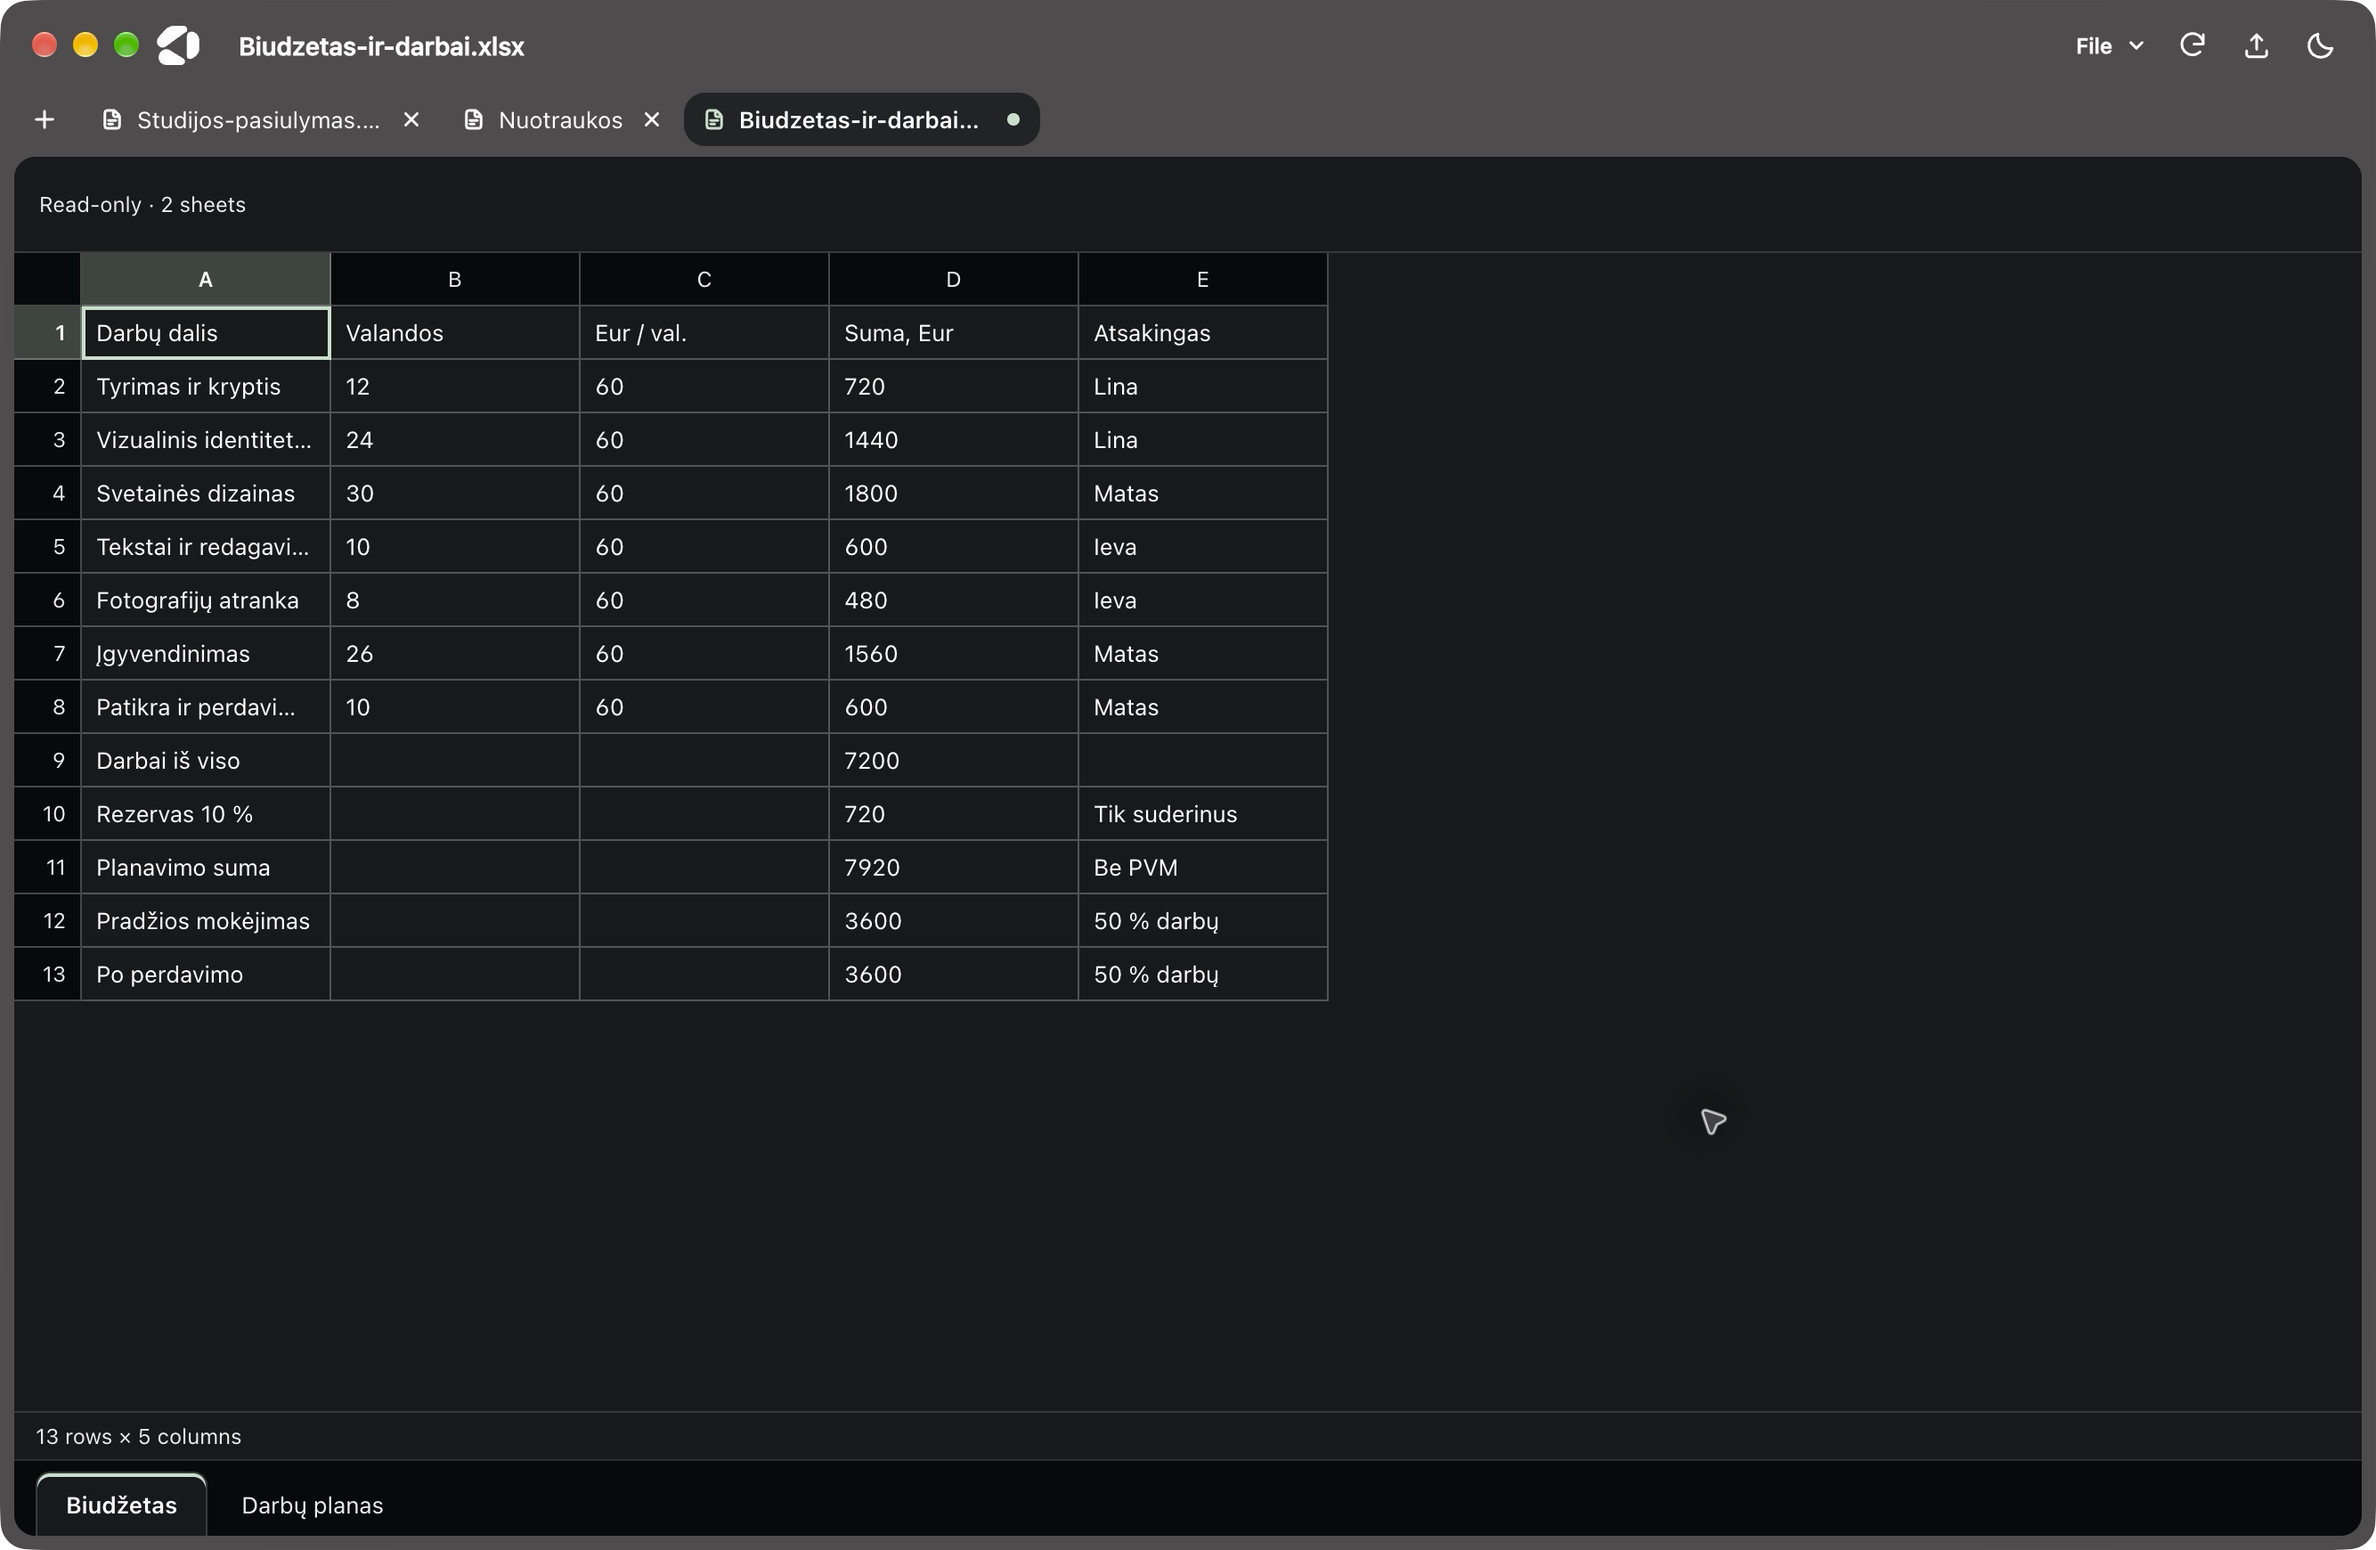
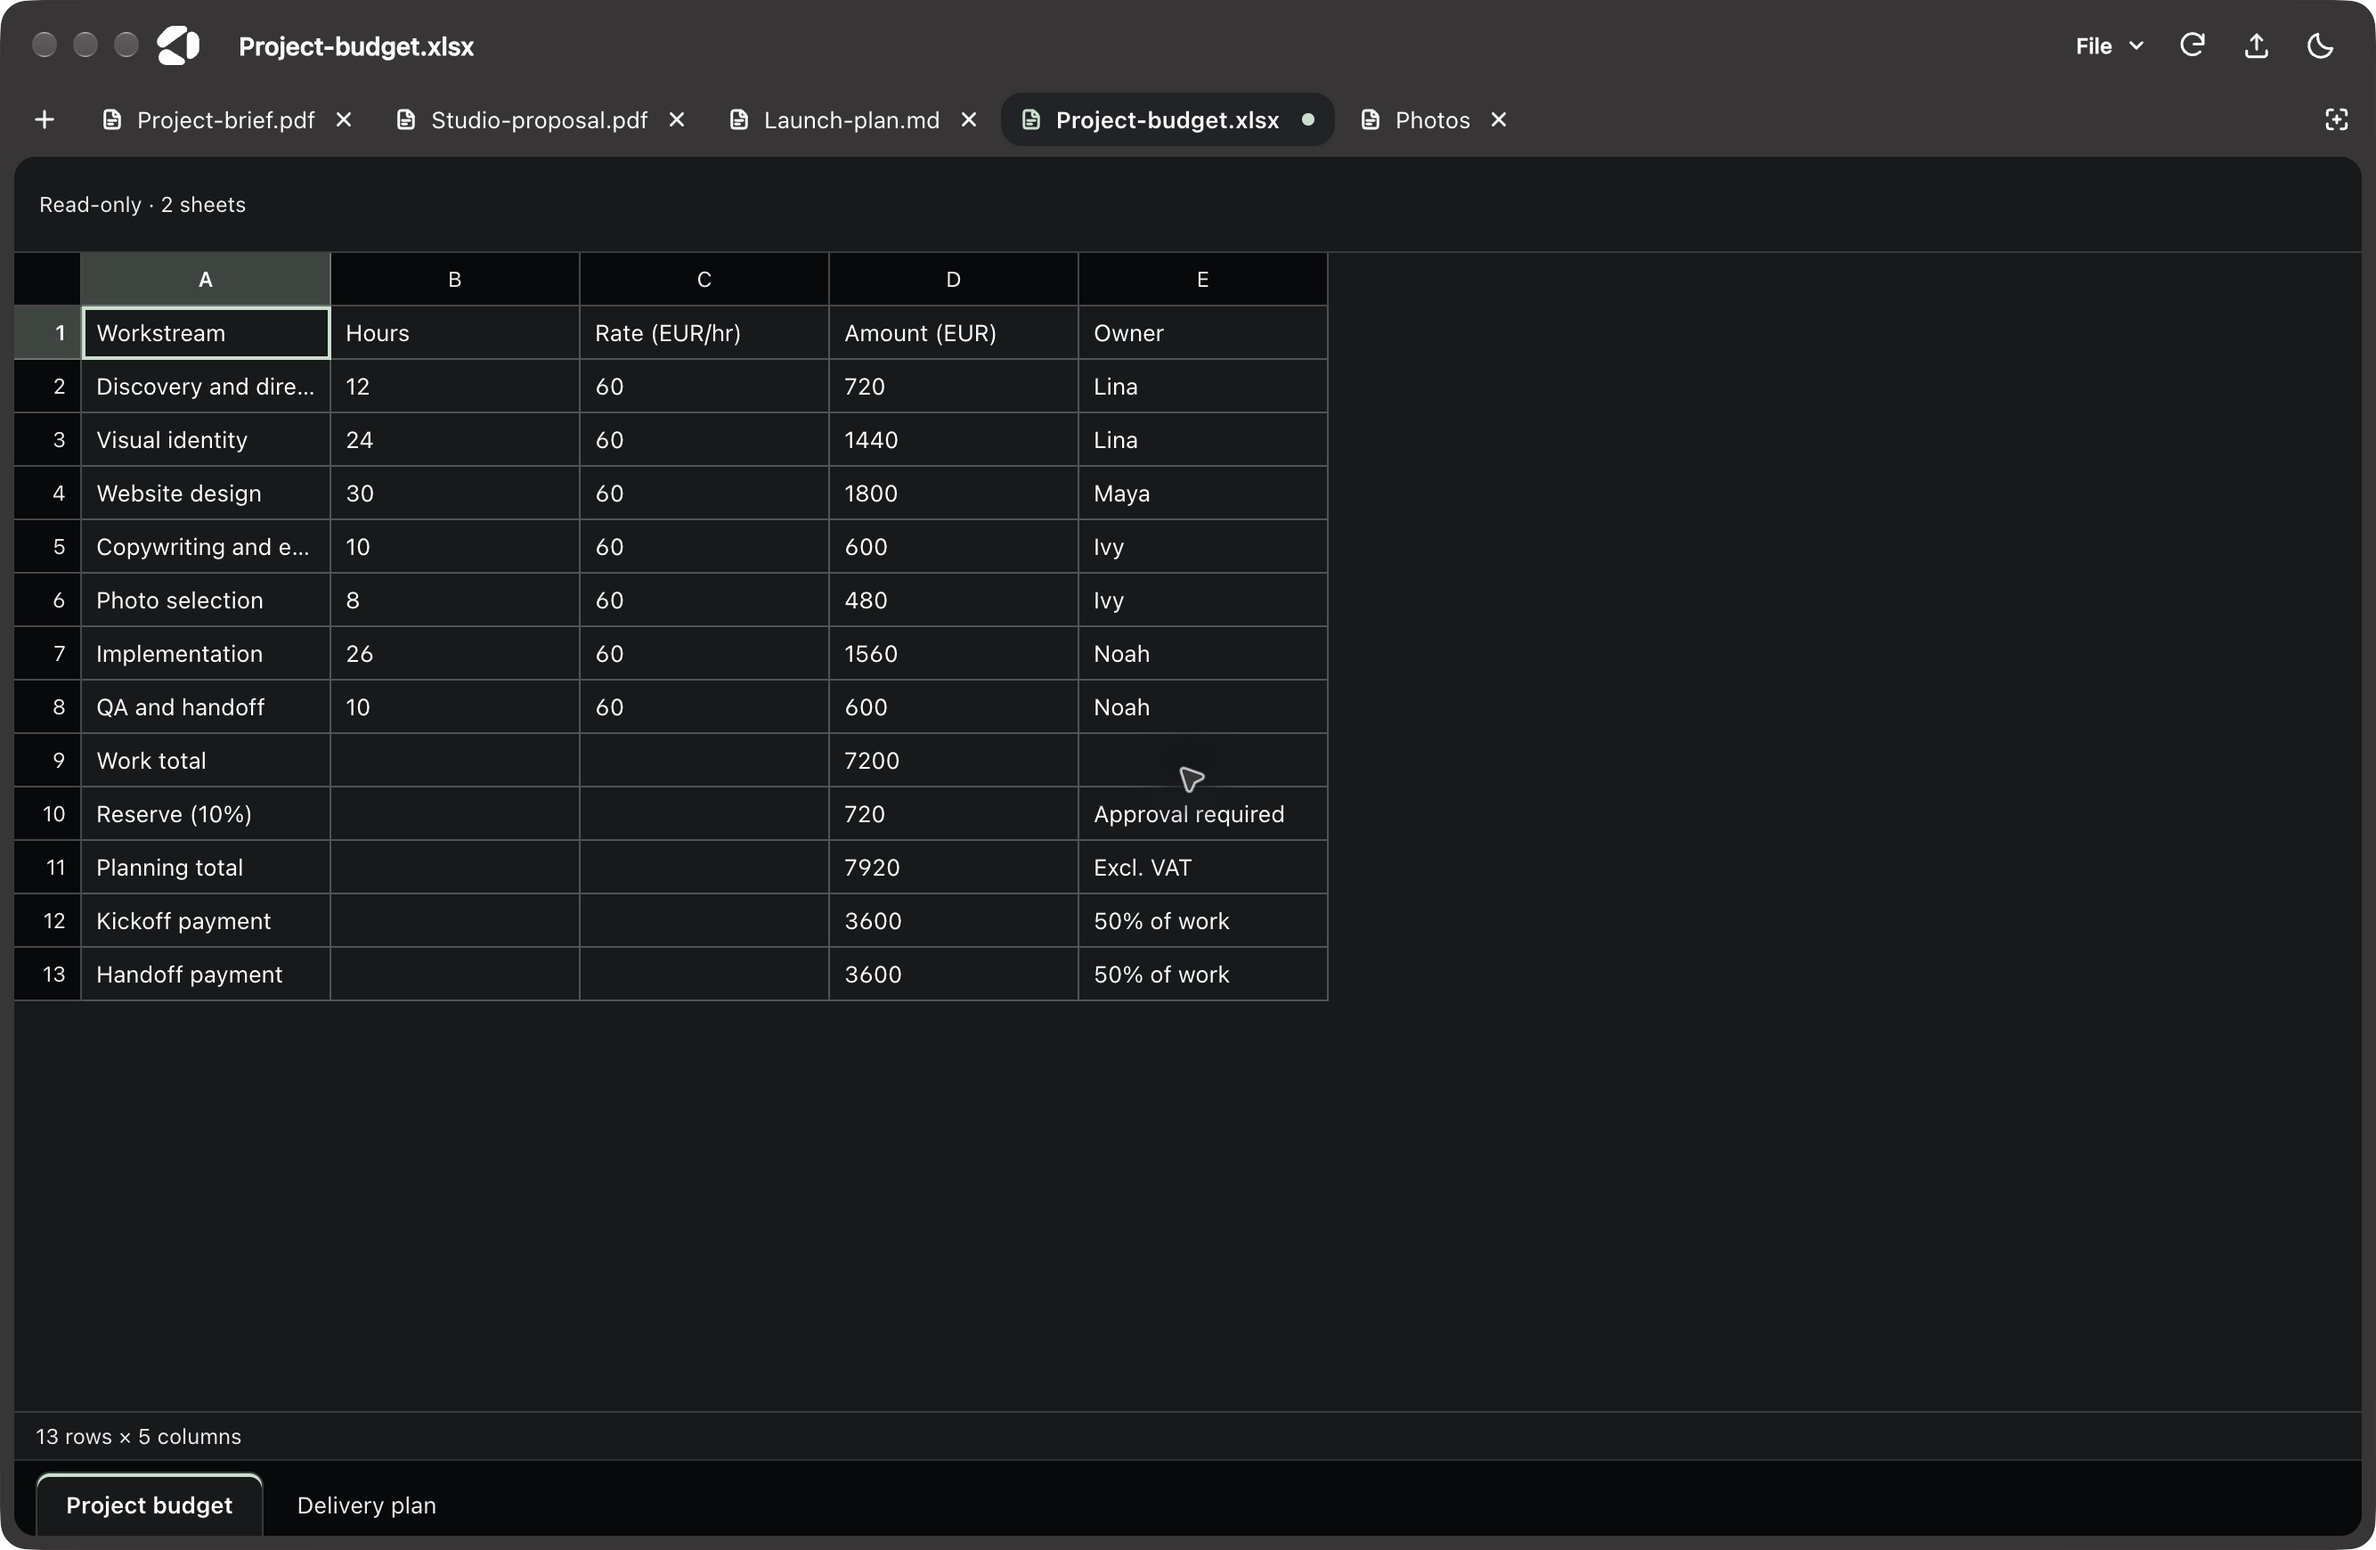
Show English content in the practical GitHub screenshot gallery (#12)

diff --git a/docs/screenshots/README.md b/docs/screenshots/README.md
@@ -1,37 +1,48 @@
 # Public screenshot provenance
 
-The practical gallery uses the installed **Doko 1.20.26** macOS app and its native UI.
-The fictional **Pajūrio studija** project connects a PDF brief, Word proposal, Markdown plan,
-Excel budget, photo folder, and Ask AI conversation. Project documents are freshly generated
-under the ignored `release/practical-capture/files/` workspace. The photo folder reuses three existing real photo source files;
-no previous screenshot image is used as input.
+The GitHub gallery uses the installed **Doko 1.20.27** macOS app and its real native UI.
+The fictional **North Coast Studio** project connects a PDF brief, Word proposal, Markdown launch plan,
+Excel budget, photo folder, and Ask AI conversation. All visible document content, filenames,
+spreadsheet sheet names, questions, and answers in these GitHub captures are in English.
+
+The fresh project files and original captures live under the ignored
+`release/english-capture/files/` and `release/english-capture/raw/` workspaces.
+The photo folder contains three existing real source photos with English filenames;
+no previous screenshot is used as an input.
 
 | Capture | Actual app flow |
 | --- | --- |
-| `pdf-reading.png` | Open and read the project PDF brief |
-| `word-document.png` | Open the `.docx` proposal and view Doko's converted PDF |
-| `markdown-editor.png` | Open and read the project Markdown plan |
-| `excel-workbook.png` | Open the project Excel budget |
-| `photo-gallery.png` | Open the project's photo folder |
-| `ask-ai.png` | Ask about the project document using an existing real provider connection |
+| `pdf-reading.png` | Open and read `Project-brief.pdf` |
+| `word-document.png` | Open `Studio-proposal.docx` and view Doko's converted PDF |
+| `markdown-editor.png` | Open and read `Launch-plan.md` in Markdown preview |
+| `excel-workbook.png` | Open `Project-budget.xlsx`, with two English sheets and the cached budget total |
+| `photo-gallery.png` | Open the `Photos` folder through one of its real JPEG files |
+| `ask-ai.png` | Ask about the English project brief using an existing real provider connection |
 
 ## Refresh protocol
 
 1. Check the installed app version and create fresh, coherent fictional project files in a temporary workspace.
+   Use English content, filenames, sheet names, and metadata for GitHub's public gallery.
 2. Open each file through the installed app's normal native controls. Capture the actual window after content is readable;
-   keep the same window proportions and current default appearance across captures.
-3. For Ask AI, submit a real question through the app and wait for the connected provider's completed response.
+   keep the same window proportions and current appearance across captures.
+3. For Ask AI, submit a real question in English and wait for the connected provider's completed response in English.
    Do not inject a conversation, replace provider responses, or expose account credentials.
-4. Save the six full window captures under the names above. Check each image visually for readable content,
-   matching file type, and private data before replacing the public assets.
-5. Create proportional JPEG derivatives of the PDF, photo, and Markdown captures for the landing page at
-   `site/public/mockups/practical-{pdf,photos,markdown}-{1334,2668}.jpg`. Preserve the whole captured window;
-   use its actual aspect ratio in `Landing.astro`.
-6. Check all README links and the site's three screenshot tabs, including mobile layout. Updating these files
-   does not publish or deploy the website.
+4. Save the six full window captures under the names above. Check each image visually for English text,
+   readable content, matching file type, and private data before replacing the public assets.
+5. Check all README image links. A GitHub-only refresh does not replace or deploy the website's gallery.
+   When a website refresh is requested, create proportional JPEG derivatives for its three screenshot tabs
+   and preserve the full native window's aspect ratio in `site/src/components/Landing.astro`.
+
+The landing page's existing `site/public/mockups/practical-*` JPEGs remain separate captures from
+Doko 1.20.26, using the earlier fictional Pajūrio studija project. They are unchanged by this GitHub-only refresh.
 
 The automated developer capture scripts are fixture generators only. `scripts/screenshots.mjs` writes to
 `release/capture-fixtures/readme/` and uses a simulated local AI response; `site/scripts/capture-mockups.mjs`
 writes to `release/capture-fixtures/site/`. Neither script is a source for the public practical gallery.
 
-The original native captures are 2668 × 1740 pixels. Native capture JPEG bytes are encoded as genuine PNG for the README without changing or cropping their pixels. The website uses 1334 × 870 and 2668 × 1740 proportional derivatives; captures are not upscaled. Word is shown after Doko's actual conversion to PDF, and the Excel view is read-only. The completed Ask AI answer correctly identifies 7 920 Eur, 11 December 2026, and the three document risks.
+The six original full-window captures are 2668 × 1740 pixels. Native capture JPEG bytes are encoded as genuine PNG for the README without changing or cropping their pixels.
+Word is shown after Doko's actual conversion to PDF, and the Excel view is read-only.
+The fictional budget is EUR 7,200 of work plus a EUR 720 reserve, for EUR 7,920 excluding VAT;
+the planned launch is December 11, 2026.
+
+The completed real ChatGPT response correctly identifies the total, launch date, and the three documented risks: late copy, scope growth, and mobile readability.

diff --git a/README.md b/README.md
@@ -5,20 +5,20 @@ documents. Free and open source, with no Doko account required.
 
 ## Doko in everyday use
 
-One fictional **Pajūrio studija** project, opened in the installed Doko app: a PDF brief, Word proposal,
+One fictional **North Coast Studio** project, opened in the installed Doko app with English content and filenames: a PDF brief, Word proposal,
 Markdown plan, Excel budget, photo folder, and a real Ask AI conversation.
 
 | PDF reading | Word → PDF |
 | --- | --- |
-| ![Pajūrio studija project brief open as a PDF in Doko](docs/screenshots/pdf-reading.png) | ![Pajūrio studija Word proposal converted to PDF in Doko](docs/screenshots/word-document.png) |
+| ![North Coast Studio project brief open as a PDF in Doko](docs/screenshots/pdf-reading.png) | ![North Coast Studio Word proposal converted to PDF in Doko](docs/screenshots/word-document.png) |
 
 | Markdown | Excel workbook |
 | --- | --- |
-| ![Pajūrio studija project plan in Doko's Markdown preview](docs/screenshots/markdown-editor.png) | ![Pajūrio studija project budget open as an Excel workbook in Doko](docs/screenshots/excel-workbook.png) |
+| ![North Coast Studio project plan in Doko's Markdown preview](docs/screenshots/markdown-editor.png) | ![North Coast Studio project budget open as an Excel workbook in Doko](docs/screenshots/excel-workbook.png) |
 
 | Photo gallery | Ask AI |
 | --- | --- |
-| ![Pajūrio studija photo folder open in Doko's gallery](docs/screenshots/photo-gallery.png) | ![A real Ask AI conversation about the Pajūrio studija document in Doko](docs/screenshots/ask-ai.png) |
+| ![North Coast Studio photo folder open in Doko's gallery](docs/screenshots/photo-gallery.png) | ![A real Ask AI conversation about the North Coast Studio document in Doko](docs/screenshots/ask-ai.png) |
 
 [Capture provenance and refresh instructions](docs/screenshots/README.md).
 
